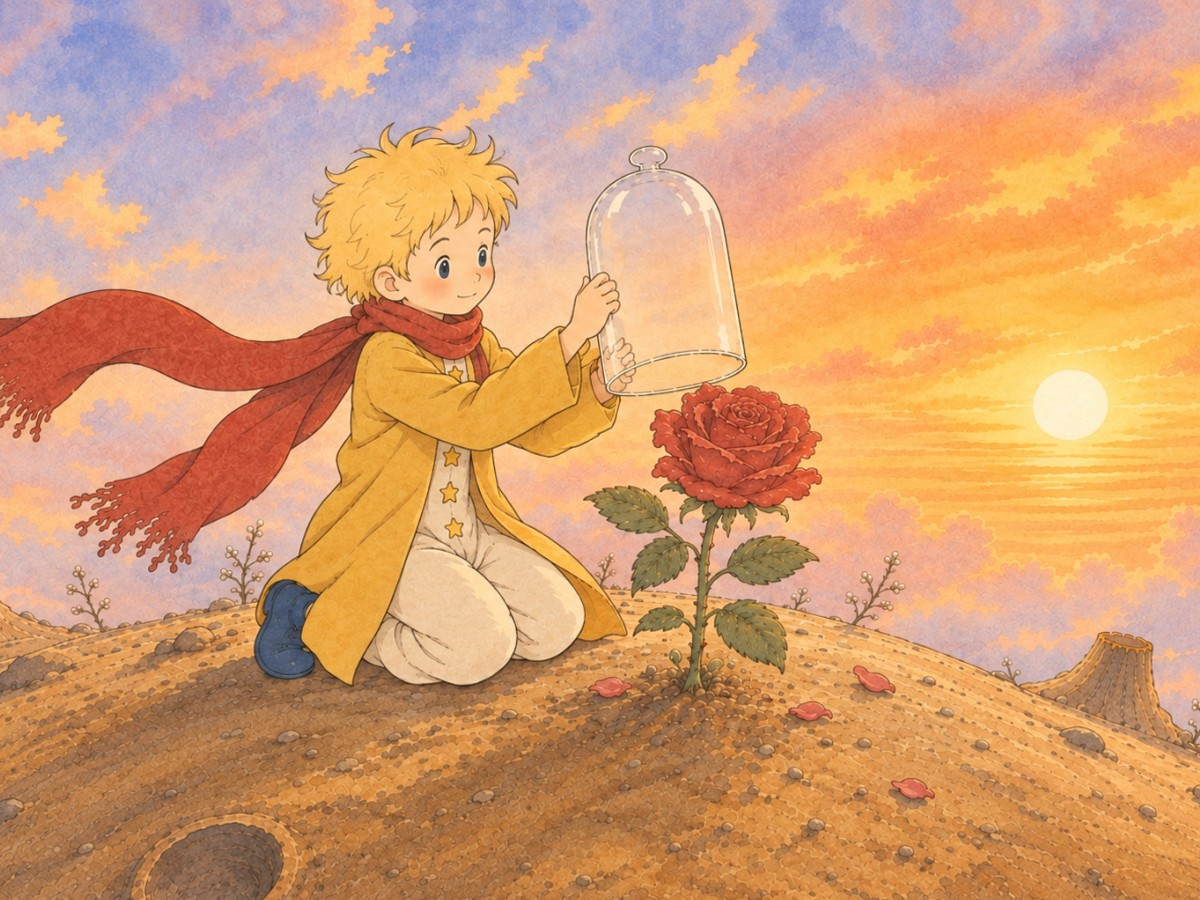
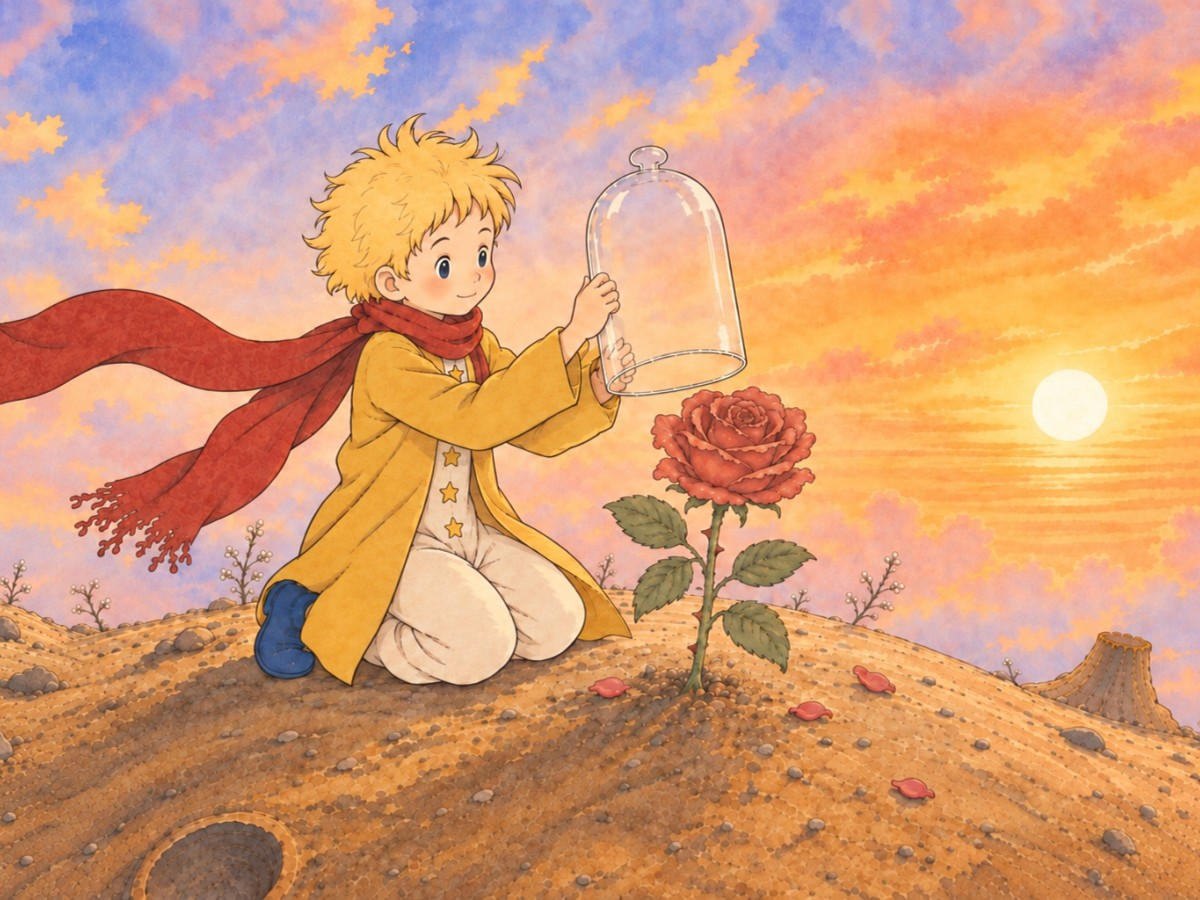
Little Prince chapter 8 matched to the reference sheets: the rose in coral red with olive leaves in chapter-08, 08-1, 08-f3 and 08-f5, the prince's hair in chapter-08, 08-f3 and 08-f5, his open coat with the stars on the tunic in 08-f2 and 08-f5

diff --git a/books/little-prince/film/shots.js b/books/little-prince/film/shots.js
@@ -70,7 +70,7 @@ window.LP_FILM_SHOTS = {
   '07-f3': { tone: 'space', focus: [0.55, 0.29], businessman: [0.55, 0.29] },
   '07-f4': { tone: 'desert-night', focus: [0.38, 0.34], pilot: [0.34, 0.2], prince: [0.38, 0.34] },
   '08-f1': { tone: 'day', focus: [0.23, 0.71] },
-  '08-f2': { tone: 'day', focus: [0.57, 0.4], prince: [0.57, 0.4], rose: [0.36, 0.21] },
+  '08-f2': { tone: 'day', focus: [0.57, 0.4], prince: [0.57, 0.4], rose: [0.31, 0.21] },
   '08-f3': { tone: 'day', focus: [0.28, 0.32], prince: [0.55, 0.3], rose: [0.28, 0.32] },
   '09-f2': { tone: 'day', focus: [0.23, 0.37], rose: [0.23, 0.37], prince: [0.75, 0.29] },
   '10-f2': { tone: 'space', focus: [0.67, 0.5], king: [0.31, 0.19], prince: [0.67, 0.5] },

diff --git a/books/little-prince/images/README.md b/books/little-prince/images/README.md
@@ -165,3 +165,15 @@ chapter-20은 어린 왕자가 조금 옮겨져서 `../film/shots.js`의 점을 
 - 뱀, 허영쟁이, 술꾼, 점등인, 전철수, 상인, 천문학자는 기준과 맞아서 그대로 두었습니다. 16-f1의 여러 나라 점등인과 26-f8의 작은 인물들은 다른 사람들입니다.
 
 02-3은 처음 편집에서 조종사 몸이 잘려 다시 그렸습니다. `../film/shots.js`에서는 02-3, 05-f1, 07-f2의 어린 왕자, 07-f2의 조종사, 21-1과 21-f1의 여우 점을 다시 잡았습니다.
+
+### 8장 장미와 어린 왕자 맞춤 (2026-09-26)
+
+8장은 장미가 네 번 나오는데 그림마다 색이 달랐습니다. chapter-08과 08-f3은 채도 높은 선홍색에 짙은 청록 잎, 08-1과 08-f5는 어두운 진홍색이었고, 앞뒤 장(07-f5, 09-f2 등)과 `characters/rose.jpg`의 장미는 연한 산호빛 빨강에 올리브색 잎입니다. 장미는 이전 인물 맞춤 작업의 대상이 아니었습니다.
+그래서 이 다섯 장을 같은 방법(국소 편집, 기준 이미지 + 정면 장미를 2배로 키운 참고)으로 고쳤습니다.
+
+- **장미**: chapter-08, 08-1, 08-f3, 08-f5의 꽃을 산호빛 빨강으로, 잎을 올리브색으로. 위치·크기·줄기는 그대로이고 08-f3의 가시 4개(본문)도 그대로입니다. chapter-08의 잎은 아직 기준보다 조금 많습니다(5~6장).
+- **어린 왕자 머리**: chapter-08과 08-f5는 앞머리가 가지런한 둥근 단발이었고 08-f3은 큰 갈기에 눈이 컸습니다. 기준의 부스스한 머리와 작은 타원 눈으로 맞췄습니다.
+- **어린 왕자 옷**: 08-f2와 08-f5는 별 단추가 노란 코트 위에 있고 앞이 여며져 있었습니다. 코트를 열고 크림색 속옷에 별 3개를 달았습니다. 다섯 장 모두 긴 겨자색 코트(앞 트임), 별 3개가 달린 크림색 속옷, 빨간 목도리, 크림색 통바지, 남색 부츠로 같습니다.
+
+08-f2는 결과가 13% 작게 나와 정렬로 키웠고, 봉오리가 조금 왼쪽으로 옮겨져 `../film/shots.js`의 장미 점을 다시 잡았습니다(0.36 → 0.31). 나머지 점은 그대로입니다.
+땅 색은 손대지 않았습니다. chapter-08과 08-1은 주황빛 흙 언덕이고 나머지는 연한 모래인데, 배경까지 바꾸면 구도가 흔들리기 때문입니다.
